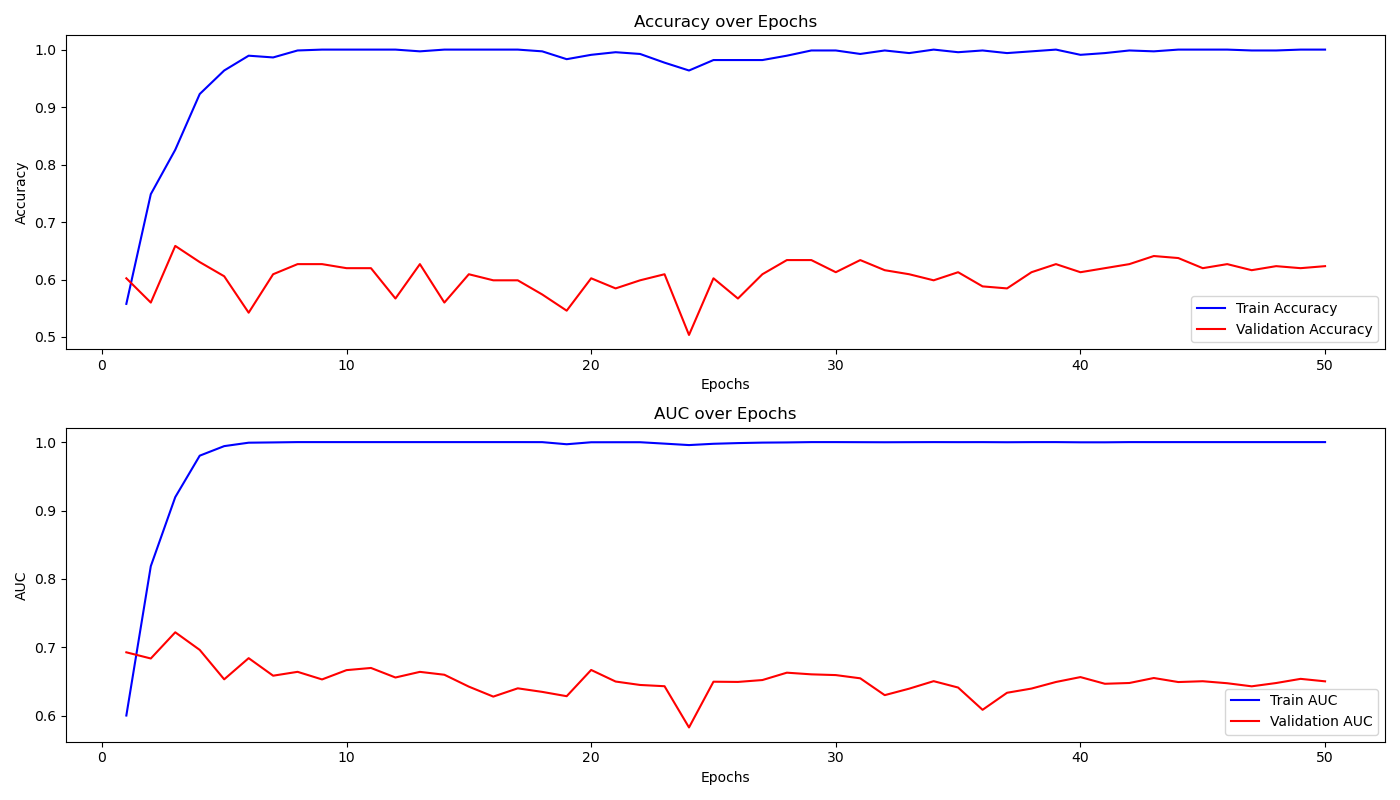
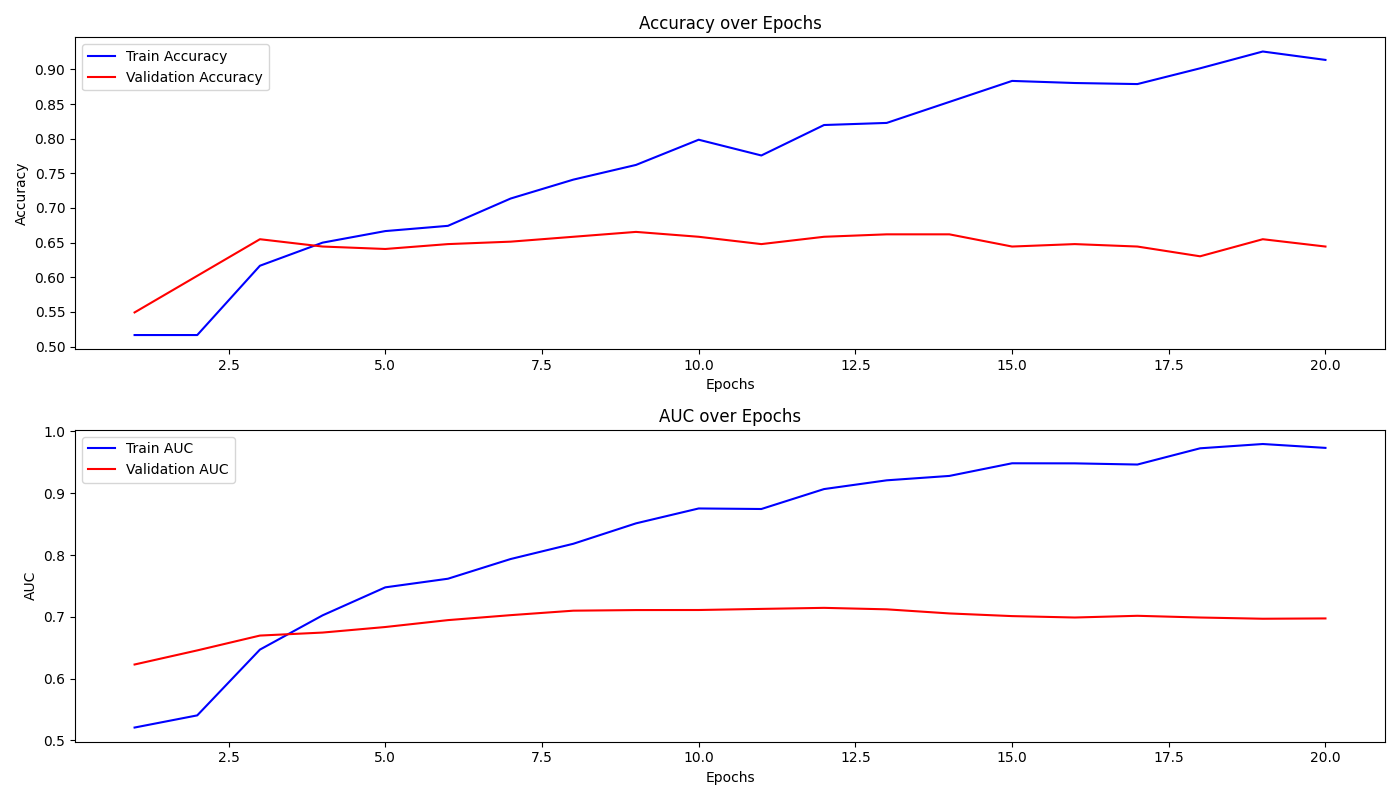
modify baseline_v2

diff --git a/baseline_v2_kfold.py b/baseline_v2_kfold.py
@@ -1,0 +1,205 @@
+import torch
+import torch.nn as nn
+import torch.nn.init as init
+import torch.optim as optim
+from torch.utils.data import DataLoader, Dataset
+import pandas as pd
+import numpy as np
+from sklearn.model_selection import KFold
+from sklearn.metrics import roc_auc_score
+import matplotlib.pyplot as plt
+
+# Load data
+relative_abundance = pd.read_csv('GMrepo_data/train_relative_abundance_IBD_v3.csv')
+metadata = pd.read_csv('GMrepo_data/train_metadata_IBD_v3.csv')
+
+# Map disease labels to numeric values
+disease_dict = {'D006262': 0, 'D043183': 1}
+metadata['disease_numeric'] = metadata['disease'].map(disease_dict)
+
+# Separate features and labels
+X = relative_abundance.drop(columns=['loaded_uid']).values  # Drop sample IDs
+y = metadata['disease_numeric'].values
+
+# Adding a small pseudocount to avoid log(0)
+pseudocount = 1e-6
+X += pseudocount
+
+# CLR Transformation
+def clr_transformation(X):
+    geometric_mean = np.exp(np.mean(np.log(X), axis=1))
+    clr_data = np.log(X / geometric_mean[:, np.newaxis])
+    return clr_data
+
+X_clr = clr_transformation(X)
+
+# Define custom dataset
+class AbundanceDataset(Dataset):
+    def __init__(self, X, y):
+        self.X = X
+        self.y = y
+    
+    def __len__(self):
+        return len(self.y)
+    
+    def __getitem__(self, idx):
+        return self.X[idx], self.y[idx]
+
+# Define neural network model
+class SimpleNN(nn.Module):
+    def __init__(self, input_size):
+        super(SimpleNN, self).__init__()
+        self.fc1 = nn.Linear(input_size, 1024)
+        self.b1 = nn.BatchNorm1d(1024)
+        self.fc2 = nn.Linear(1024, 256)
+        self.b2 = nn.BatchNorm1d(256)
+        self.fc3 = nn.Linear(256, 64)
+        self.b3 = nn.BatchNorm1d(64)
+        self.fc4 = nn.Linear(64, 1)
+        self.relu = nn.ReLU()
+        self.dropout = nn.Dropout(0.5)
+        # self.sigmoid = nn.Sigmoid()
+        self._initialize_weights()
+    
+    def _initialize_weights(self):
+        # Initialize Linear layers with He initialization
+        for m in self.modules():
+            if isinstance(m, nn.Linear):
+                init.kaiming_uniform_(m.weight, nonlinearity='relu')
+                if m.bias is not None:
+                    init.zeros_(m.bias)
+            
+            # Initialize BatchNorm layers
+            elif isinstance(m, nn.BatchNorm1d):
+                init.ones_(m.weight)
+                init.zeros_(m.bias)
+
+    def forward(self, x):
+        x = self.relu(self.b1(self.fc1(x)))
+        x = self.dropout(x)
+        x = self.relu(self.b2(self.fc2(x)))
+        x = self.dropout(x)
+        x = self.relu(self.b3(self.fc3(x)))
+        x = self.fc4(x)
+        # x =  self.sigmoid(self.fc4(x))  # No Sigmoid here for BCEWithLogitsLoss
+        return x
+
+# Set up k-fold cross-validation
+kf = KFold(n_splits=5, shuffle=True, random_state=42)
+
+fold_accuracies, fold_aucs, fold_losses = [], [], []
+
+for fold, (train_index, val_index) in enumerate(kf.split(X_clr)):
+    print(f"Fold {fold+1}/{kf.get_n_splits()}")
+
+    X_train_fold, X_val_fold = X_clr[train_index], X_clr[val_index]
+    y_train_fold, y_val_fold = y[train_index], y[val_index]
+
+    # Convert to PyTorch tensors
+    X_train_tensor = torch.tensor(X_train_fold, dtype=torch.float32)
+    y_train_tensor = torch.tensor(y_train_fold, dtype=torch.float32)
+    X_val_tensor = torch.tensor(X_val_fold, dtype=torch.float32)
+    y_val_tensor = torch.tensor(y_val_fold, dtype=torch.float32)
+
+    # Instantiate the datasets
+    train_dataset = AbundanceDataset(X_train_tensor, y_train_tensor)
+    val_dataset = AbundanceDataset(X_val_tensor, y_val_tensor)
+
+    # Create DataLoader
+    train_dataloader = DataLoader(train_dataset, batch_size=64, shuffle=True)
+    val_dataloader = DataLoader(val_dataset, batch_size=64, shuffle=False)
+
+    # Initialize the model
+    input_size = X_train_tensor.shape[1]
+    model = SimpleNN(input_size)
+
+    # Loss and optimizer
+    criterion = nn.BCEWithLogitsLoss()
+    # optimizer = optim.Adam(model.parameters(), lr=0.001, weight_decay=1e-5)  # Added L2 regularization
+    optimizer = optim.Adam(model.parameters(), lr=0.0001, weight_decay=1e-5)
+
+    # Track metrics
+    train_accuracies, val_accuracies = [], []
+    train_aucs, val_aucs = [], []
+    train_losses, val_losses = [], []
+
+    # Training and evaluation loop
+    num_epochs = 20
+    for epoch in range(num_epochs):
+        model.train()
+        correct_predictions = 0
+        running_loss = 0.0
+        y_train_true = []
+        y_train_pred = []
+        
+        for inputs, labels in train_dataloader:
+            labels = labels.unsqueeze(1)  # Adjust shape for BCEWithLogitsLoss
+            
+            # Forward pass
+            outputs = model(inputs)
+            loss = criterion(outputs, labels)
+            predicted = torch.sigmoid(outputs).round()  # Apply sigmoid and round for binary prediction
+            correct_predictions += (predicted == labels).sum().item()
+            
+            # Backward pass and optimization
+            optimizer.zero_grad()
+            loss.backward()
+            optimizer.step()
+
+            running_loss += loss.item() * inputs.size(0)
+            y_train_true.extend(labels.cpu().numpy())
+            y_train_pred.extend(torch.sigmoid(outputs).detach().cpu().numpy())
+        
+        # Calculate metrics for training
+        epoch_loss = running_loss / len(train_dataset)
+        accuracy = correct_predictions / len(train_dataset)
+        auc = roc_auc_score(y_train_true, y_train_pred)
+        
+        train_accuracies.append(accuracy)
+        train_aucs.append(auc)
+        train_losses.append(epoch_loss)
+        
+        print(f'Epoch [{epoch+1}/{num_epochs}], Loss: {epoch_loss:.4f}, Train Accuracy: {accuracy:.4f}, Train AUC: {auc:.4f}')
+
+        # Validation loop
+        model.eval()
+        val_loss = 0.0
+        correct_val_predictions = 0
+        y_val_true = []
+        y_val_pred = []
+        
+        with torch.no_grad():
+            for inputs, labels in val_dataloader:
+                labels = labels.unsqueeze(1)
+                outputs = model(inputs)
+                loss = criterion(outputs, labels)
+                val_loss += loss.item() * inputs.size(0)
+                
+                predicted = torch.sigmoid(outputs).round()
+                correct_val_predictions += (predicted == labels).sum().item()
+                
+                y_val_true.extend(labels.cpu().numpy())
+                y_val_pred.extend(torch.sigmoid(outputs).cpu().numpy())
+
+        val_loss /= len(val_dataset)
+        val_accuracy = correct_val_predictions / len(val_dataset)
+        val_auc = roc_auc_score(y_val_true, y_val_pred)
+        
+        val_accuracies.append(val_accuracy)
+        val_aucs.append(val_auc)
+        val_losses.append(val_loss)
+        
+        print(f'Validation Loss: {val_loss:.4f}, Validation Accuracy: {val_accuracy:.4f}, Validation AUC: {val_auc:.4f}\n')
+
+    fold_losses.append(val_loss)
+    fold_accuracies.append(val_accuracy)
+    fold_aucs.append(val_auc)
+
+# Average metrics across all folds
+avg_accuracy = np.mean(fold_accuracies)
+avg_auc = np.mean(fold_aucs)
+avg_loss = np.mean(fold_losses)
+
+print(f'Average Validation Loss: {avg_loss:.4f}')
+print(f'Average Validation Accuracy: {avg_accuracy:.4f}')
+print(f'Average Validation AUC: {avg_auc:.4f}')

diff --git a/baseline_v2.py b/baseline_v2.py
@@ -1,5 +1,6 @@
 import torch
 import torch.nn as nn
+import torch.nn.init as init
 import torch.optim as optim
 from torch.utils.data import DataLoader, Dataset
 import pandas as pd
@@ -74,8 +75,22 @@ class SimpleNN(nn.Module):
         self.fc4 = nn.Linear(64, 1)
         self.relu = nn.ReLU()
         self.dropout = nn.Dropout(0.5)
-        self.sigmoid = nn.Sigmoid()
+        # self.sigmoid = nn.Sigmoid()
+        self._initialize_weights()
     
+    def _initialize_weights(self):
+        # Initialize Linear layers with He initialization
+        for m in self.modules():
+            if isinstance(m, nn.Linear):
+                init.kaiming_uniform_(m.weight, nonlinearity='relu')
+                if m.bias is not None:
+                    init.zeros_(m.bias)
+            
+            # Initialize BatchNorm layers
+            elif isinstance(m, nn.BatchNorm1d):
+                init.ones_(m.weight)
+                init.zeros_(m.bias)
+
     def forward(self, x):
         x = self.relu(self.b1(self.fc1(x)))
         x = self.dropout(x)
@@ -93,7 +108,8 @@ model = SimpleNN(input_size)
 # Loss and optimizer
 # criterion = nn.BCEWithLogitsLoss()
 criterion = nn.BCEWithLogitsLoss()
-optimizer = optim.Adam(model.parameters(), lr=0.001, weight_decay=1e-5)  # Added L2 regularization
+# optimizer = optim.Adam(model.parameters(), lr=0.001, weight_decay=1e-5)  # Added L2 regularization
+optimizer = optim.Adam(model.parameters(), lr=0.0001, weight_decay=1e-3)
 
 # Track metrics
 train_accuracies, val_accuracies = [], []
@@ -101,7 +117,7 @@ train_aucs, val_aucs = [], []
 train_losses, val_losses = [], []
 
 # Training loop
-num_epochs = 50
+num_epochs = 20
 for epoch in range(num_epochs):
     model.train()
     correct_predictions = 0
@@ -138,7 +154,7 @@ for epoch in range(num_epochs):
     
     print(f'Epoch [{epoch+1}/{num_epochs}], Loss: {epoch_loss:.4f}, Train Accuracy: {accuracy:.4f}, Train AUC: {auc:.4f}')
 
-    if epoch == 49:
+    if epoch == num_epochs - 1: # Print the last epoch
         print('hiii')
         print(labels)
         print('pred')
@@ -173,7 +189,7 @@ for epoch in range(num_epochs):
     val_aucs.append(val_auc)
     val_losses.append(val_loss)
     
-    print(f'Validation Loss: {val_loss:.4f}, Validation Accuracy: {val_accuracy:.4f}, Validation AUC: {val_auc:.4f}')
+    print(f'Validation Loss: {val_loss:.4f}, Validation Accuracy: {val_accuracy:.4f}, Validation AUC: {val_auc:.4f}\n')
 
 # Plotting training and validation metrics
 epochs = range(1, num_epochs + 1)

diff --git a/readme.md b/readme.md
@@ -31,6 +31,8 @@ Our aim is to improve the accuracy and reliability of microbiome studies by effe
 
 For now please run baseline2 both for train_v2 and train v3 version (train v2 is imbalanced labels and v3 is balance labels )
 
+*YH: baseline_v2 is great. I decreased the learning rate to 0.0001 and added parameter initialization in the model to avoid local optimization. The performance.png looks slightly better now, where the test accuracy and AUC do not tremor. Please note that the model is overfitting after about 10 epochs. We can address this later. Also, I wrote baseline_v2_kfold to check the data. Everthing looks good.* 
+
 ## To-Do List
 
 - [ ] Find projects for train and test dataset that has different distribution for metadata (e.g. gender), and focus on bindary classification
